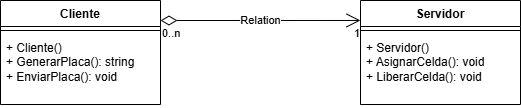
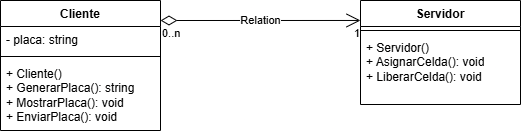
generar varias placas

diff --git a/main.cpp b/main.cpp
@@ -1,13 +1,21 @@
 #include "Cliente.h"
+#include <chrono>
+#include <windows.h>
 
 
 using namespace std;
 
+
 int main(){
     srand(time(0));
     Cliente cliente;
-    cliente.GenerarPlaca();
-    cliente.MostrarPlaca();
+    while (true){
+        cliente.GenerarPlaca();
+        cliente.MostrarPlaca();
+    
+        Sleep(5000);
+    };
+    
 
     return 0;
 };